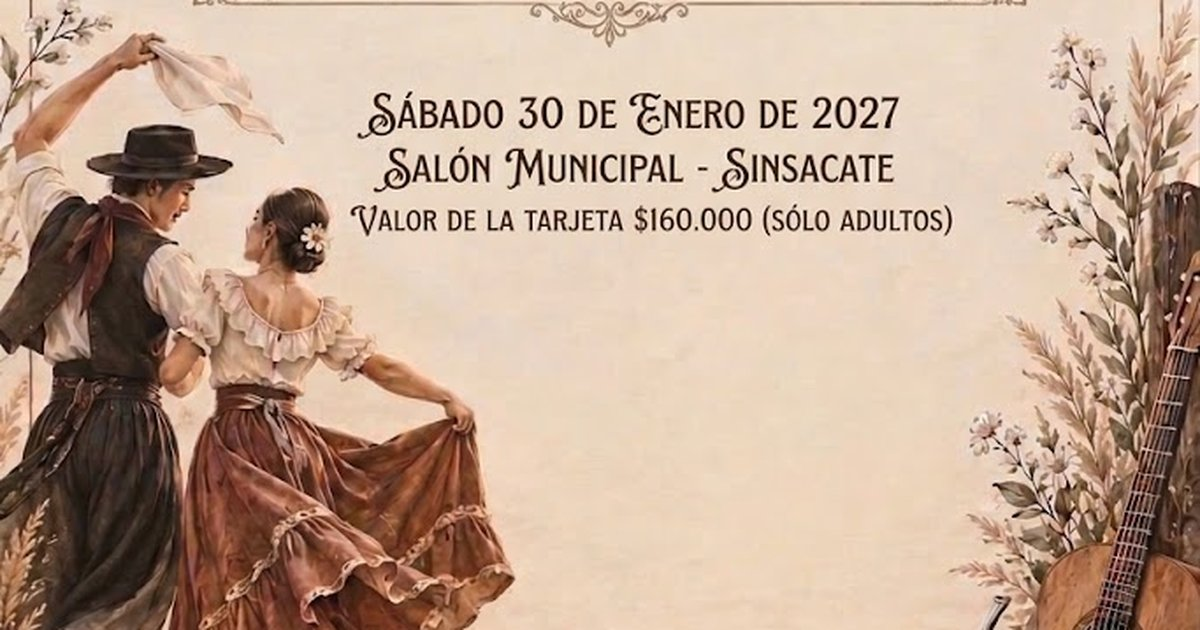
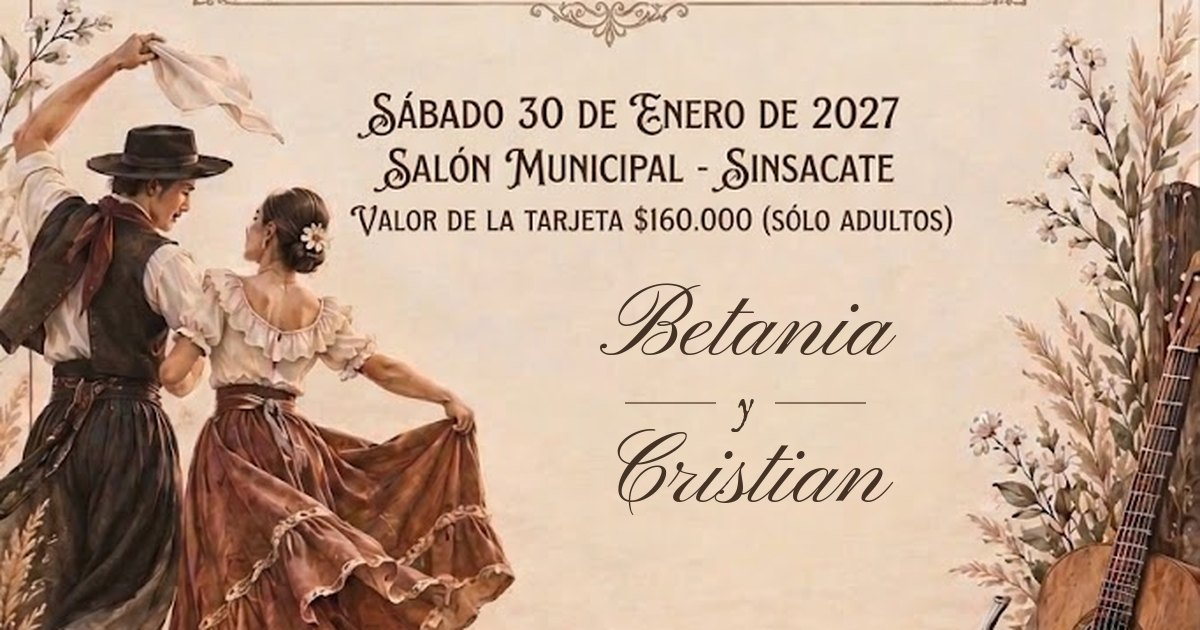
Nombres de los novios en la imagen de vista previa
Claude-Session: https://claude.ai/code/session_01EFQHX4EGLY9BVDGFtCmJ7M

Changed region(s): [[0.4933, 0.6333, 0.74, 0.8143], [0.4933, 0.4524, 0.74, 0.573], [0.6167, 0.6333, 0.7092, 0.6635]]

diff --git a/index.html b/index.html
@@ -9,7 +9,7 @@
 <meta property="og:url" content="https://jony1809.github.io/Casamiento-Cristian-Beta/">
 <meta property="og:title" content="¡Betania y Cristian se casan! 💍">
 <meta property="og:description" content="Sábado 30 de enero de 2027 · Salón Municipal, Sinsacate. Mirá la cuenta regresiva para el gran día.">
-<meta property="og:image" content="https://jony1809.github.io/Casamiento-Cristian-Beta/preview.jpg">
+<meta property="og:image" content="https://jony1809.github.io/Casamiento-Cristian-Beta/preview.jpg?v=3">
 <meta property="og:image:width" content="1200">
 <meta property="og:image:height" content="630">
 <meta property="og:locale" content="es_AR">
